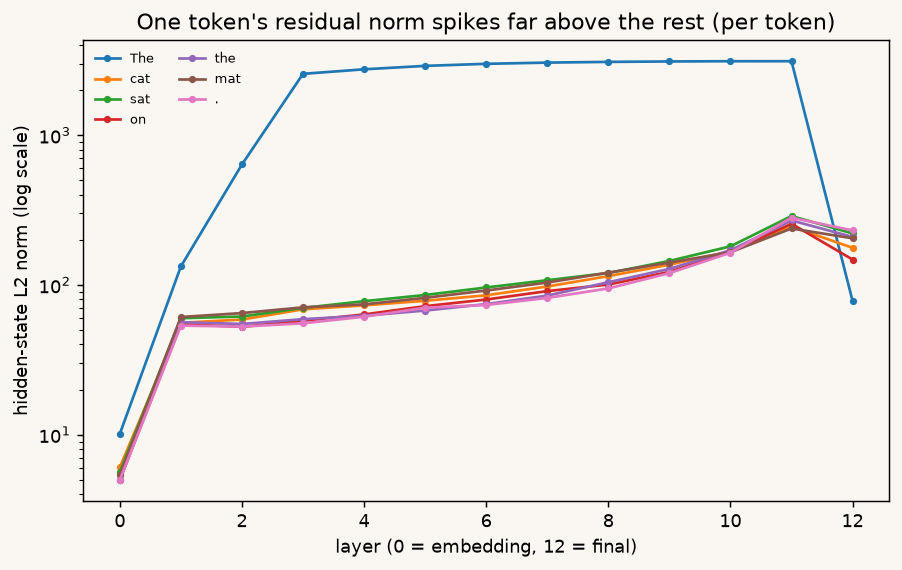
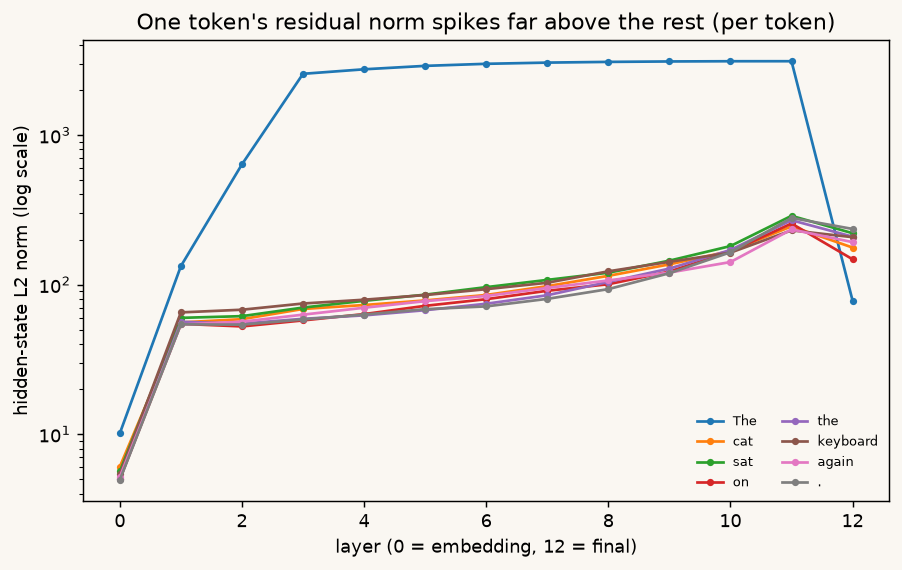
FN2: switch example to 'The cat sat on the keyboard again.', add interpretable subject-tracking head
Feature layer 4 head 3 (later words look back at 'cat') beside the layer 5 head 1
sink, per the clear-word-pair-pattern request. Regenerate all three figures with
the granular PowerNorm attention scale. Update observe.py/extract2.py/plot.py and
the draft text (39x activation spike, 8-token grids) to match.

diff --git a/drafts/fn2/code/plot.py b/drafts/fn2/code/plot.py
@@ -15,24 +15,43 @@ S = meta["seq_len"]
 PAPER = "#faf7f2"
 
 # --- Figure 1: attention heatmap, the local head vs. the sink head ---
-lh = meta["local_head_layer0"]
+# Two readability fixes over a plain 0-1 heatmap:
+#   1. mask the upper triangle (causal: those cells are exactly 0 by construction,
+#      not "no attention learned") so real zeros don't read as a checkerboard.
+#   2. use a gamma<1 power norm + per-cell numbers so mid-range weights are legible
+#      instead of everything snapping to pure black or yellow.
+from matplotlib.colors import PowerNorm
+il, ih = meta["interp_head"]
 sl, sh = meta["sink_head"]
-picks = [(0, lh, "a local head\n(looks at neighbors)"),
-         (sl, sh, "the sink head\n(dumps onto 'The')")]
-fig, axes = plt.subplots(1, 2, figsize=(10, 4.8))
+picks = [(il, ih, "an interpretable head\n(later words look back at 'cat')"),
+         (sl, sh, "the sink head\n(every word dumps onto 'The')")]
+labels = [t.strip() for t in tokens]
+fig, axes = plt.subplots(1, 2, figsize=(11, 5.2))
 fig.patch.set_facecolor(PAPER)
+norm = PowerNorm(gamma=0.45, vmin=0, vmax=1)
 for ax, (L, H, sub) in zip(axes, picks):
-    m = attn[L, H]
-    im = ax.imshow(m, cmap="magma", vmin=0, vmax=1, aspect="equal")
-    ax.set_title(f"layer {L}, head {H}\n{sub}", fontsize=11)
+    m = attn[L, H].copy()
+    m[np.triu_indices(S, k=1)] = np.nan          # hide future positions
+    cmap = plt.get_cmap("magma").copy()
+    cmap.set_bad(PAPER)                           # masked cells = paper color
+    im = ax.imshow(m, cmap=cmap, norm=norm, aspect="equal")
+    for i in range(S):                            # print the weight in each live cell
+        for j in range(i + 1):
+            v = attn[L, H, i, j]
+            if v >= 0.005:
+                ax.text(j, i, f"{v:.2f}".lstrip("0"), ha="center", va="center",
+                        fontsize=6.5, color="white" if v < 0.6 else "black")
+    ax.set_title(f"layer {L}, head {H}\n{sub}", fontsize=10.5)
     ax.set_xticks(range(S)); ax.set_yticks(range(S))
-    ax.set_xticklabels([t.strip() for t in tokens], rotation=90, fontsize=8)
-    ax.set_yticklabels([t.strip() for t in tokens], fontsize=8)
+    ax.set_xticklabels(labels, rotation=90, fontsize=8)
+    ax.set_yticklabels(labels, fontsize=8)
     ax.set_xlabel("attends to", fontsize=9)
     ax.set_facecolor(PAPER)
 axes[0].set_ylabel("token doing the attending", fontsize=9)
-fig.colorbar(im, ax=axes, fraction=0.03, pad=0.03, label="attention weight")
-fig.suptitle('GPT-2 attention, one prompt: "%s"' % meta["prompt"], fontsize=12, y=1.02)
+cbar = fig.colorbar(im, ax=axes, fraction=0.03, pad=0.03,
+                    ticks=[0, 0.1, 0.25, 0.5, 1.0])
+cbar.set_label("attention weight (nonlinear scale)")
+fig.suptitle('GPT-2 attention on "%s"' % meta["prompt"], fontsize=12, y=1.02)
 fig.savefig(f"{D}/fig_attention.png", dpi=130, facecolor=PAPER, bbox_inches="tight")
 plt.close(fig)
 

diff --git a/drafts/fn2/code/extract2.py b/drafts/fn2/code/extract2.py
@@ -15,7 +15,7 @@ import torch
 from transformers import AutoModelForCausalLM, AutoTokenizer
 
 MODEL = "gpt2"
-PROMPT = "The cat sat on the mat."   # simpler: no coreference bait, 7 tokens
+PROMPT = "The cat sat on the keyboard again."   # funny + a clear subject-tracking head
 OUT = "/home/mpathak/code/research/tools/tailfin/fn-observe-prototype"
 
 tok = AutoTokenizer.from_pretrained(MODEL)
@@ -36,17 +36,38 @@ L, H, _, _ = attn.shape
 # sink strength per head: last token's attention weight onto token 0
 sink = attn[:, :, -1, 0]                        # [L, H]
 li, hi = np.unravel_index(sink.argmax(), sink.shape)
-# a diffuse/local contrast head: smallest sink among layer-0 heads
-local_h = int(sink[0].argmin())
+
+# the "interpretable" contrast head: the one with the strongest real word-pair
+# links, i.e. big off-diagonal weight that is NOT self, the immediate neighbor,
+# or the sink column (token 0). This is the head that shows meaning being wired
+# up (e.g. several later words pointing back at the subject).
+mask = np.ones((L, H))
+best_link = -1.0
+int_l, int_h = 0, 0
+for a in range(L):
+    for b in range(H):
+        m = attn[a, b]
+        score = 0.0
+        for i in range(2, S):
+            for j in range(1, i - 1):    # skip self, neighbor, token 0
+                score = max(score, m[i, j])
+        if score > best_link:
+            best_link, int_l, int_h = score, a, b
 
 print(f"prompt: {PROMPT!r}   tokens: {tokens}   ({S} tokens)")
 print(f"layers={L} heads={H}\n")
 print(f"strongest sink head: layer {li}, head {hi}  "
       f"-> {sink[li, hi]:.0%} of last token's attention on token 0 ({tokens[0]!r})")
-print(f"contrast (local) head: layer 0, head {local_h}  "
-      f"-> only {sink[0, local_h]:.0%} on token 0")
+print(f"interpretable head: layer {int_l}, head {int_h}  "
+      f"-> strongest word-pair link {best_link:.2f}")
+# report that head's links back to the subject
+m = attn[int_l, int_h]
+for qi in range(2, S):
+    row = m[qi].copy(); row[qi] = 0; row[0] = 0
+    kj = int(row.argmax())
+    if row[kj] > 0.3:
+        print(f"    {tokens[qi]!r:>10} -> {tokens[kj]!r:<10} {row[kj]:.2f}")
 print()
-# how common is the sink? fraction of heads (deep half) with >50% on token 0
 deep = attn[L // 2:, :, -1, 0]
 print(f"heads in the deep half with >50% of last-token attention on token 0: "
       f"{(deep > 0.5).mean():.0%}")
@@ -57,7 +78,7 @@ meta = {
     "model": MODEL, "prompt": PROMPT, "tokens": tokens, "seq_len": S,
     "n_layers": L, "n_heads": H,
     "sink_head": [int(li), int(hi)], "sink_strength": float(sink[li, hi]),
-    "local_head_layer0": local_h, "local_strength": float(sink[0, local_h]),
+    "interp_head": [int(int_l), int(int_h)], "interp_link": float(best_link),
     "attn_row_sum_check": float(attn[li, hi, -1].sum()),
     "hidden_dim": int(hidden.shape[-1]),
 }

diff --git a/drafts/fn2/code/observe.py b/drafts/fn2/code/observe.py
@@ -18,7 +18,7 @@ model = AutoModelForCausalLM.from_pretrained(
     torch_dtype=torch.float32,
 ).eval()
 
-prompt = "The cat sat on the mat."
+prompt = "The cat sat on the keyboard again."
 enc = tok(prompt, return_tensors="pt")
 tokens = [tok.decode([t]) for t in enc.input_ids[0].tolist()]
 

diff --git a/drafts/fn2/README.md b/drafts/fn2/README.md
@@ -4,15 +4,27 @@
 
 ---
 
-Most of this series watches models from the outside. Tokens per second, batch sizes, KV-cache blocks, the shape of a decode step in a trace. That's the serving layer, and it's where the money is.
+Most of this series watches models from the outside. How many tokens per second, how big a batch, how the work looks in a profiler trace. That's the serving layer, the plumbing that turns your prompt into an answer fast, and it's where the money is.
 
-Underneath it sits a layer the serving stack never shows you: the actual arithmetic. The attention weights, the activations moving up the residual stream, the numbers the model computes on its way to a next-token prediction.
+But there's a layer underneath that the plumbing never shows you: the actual thinking. When a model reads your prompt, it does a huge pile of arithmetic. Which earlier words does it look at? How strongly? What is it holding onto as it goes? Those numbers exist for a fraction of a second and then they're gone.
 
-So I asked a simple question. For one prompt, can I just watch what the model is doing inside? It turns out you can, in about forty lines of code, and the picture is stranger than I expected.
+So I asked a simple question. For one prompt, can I just watch what the model is doing inside while it reads? It turns out you can, and the picture is stranger than I expected.
 
-## Getting the matrices out
+## A one-minute refresher on attention
 
-You can't do this with vLLM or Ollama (I'll come back to why). You use plain HuggingFace `transformers` in "eager" mode, and ask it to keep the intermediate values it normally throws away. Three flags do it:
+If you've read [the primer on what happens inside an LLM](https://mapathak-commits.github.io/inference-wall/articles/primer-2/), skip this. If not, here's the only idea you need.
+
+A language model reads your prompt one word at a time (really *tokens*, which are word-pieces, but think "words"). The single trick that lets it understand a sentence rather than a bag of words is **attention**: as the model processes each word, it looks back over the earlier words and decides how much weight to give each one. When it reads "sat" in *the cat sat on the keyboard*, attention is what lets "sat" look back and connect to "cat," the thing doing the sitting.
+
+Each word spreads a fixed budget of attention over the words before it. The budget always adds up to 1, like slicing a pie: give a bigger slice to one word and every other slice shrinks. So an attention pattern is just a set of pie-slices, one per earlier word, saying where this word is looking.
+
+The model doesn't do this once. It has many **heads**, each looking for its own kind of relationship (one might track the subject of the sentence, another the previous word), stacked in **layers** that refine the picture. GPT-2, the small open model I'll use here, has 12 layers with 12 heads each: 144 little attention patterns per word. That's the thing I wanted to see.
+
+## Getting the numbers out
+
+Here's the catch, and it's the whole reason this is a field note. The fast tools everyone actually serves models with, like vLLM or Ollama, *can't* show you this (I'll come back to why). You have to use a slower, more honest library, HuggingFace `transformers`, and ask it to hand back the scratch work it normally throws away.
+
+If you don't care about the code, skip the gray boxes. It's three settings that mean "keep the attention pie-slices, keep the running state, and keep the memory of earlier words":
 
 ```python
 model = AutoModelForCausalLM.from_pretrained(
@@ -21,90 +33,74 @@ model = AutoModelForCausalLM.from_pretrained(
 
 out = model(**enc,
             output_attentions=True,      # keep the attention weights
-            output_hidden_states=True,   # keep every layer's residual stream
-            use_cache=True)              # and the KV cache
+            output_hidden_states=True,   # keep the running state at every layer
+            use_cache=True)              # and the memory of earlier tokens (the KV cache)
 ```
 
-Now everything the model computed is sitting in `out`, and you can stack it into arrays you can index directly:
+That gives back two things worth staring at. The **attention weights**: for my eight-token sentence, a stack of 8x8 grids, one per head, where each row is a word and each cell says how big a slice it gave to an earlier word. And the **running state**: the vector the model carries for each word, snapshotted after every layer, which I'll get to in the second half.
 
-```python
-attn   = np.stack([a[0].numpy() for a in out.attentions])      # [layers, heads, S, S]
-hidden = np.stack([h[0].numpy() for h in out.hidden_states])   # [layers+1, S, dim]
-```
+The full runnable version is [`observe.py`](code/observe.py). Everything below just reads off those two.
 
-For GPT-2 on my prompt, `"The cat sat on the mat."`, that makes `attn` a `[12, 12, 7, 7]` block: twelve layers, twelve heads each, and for every head a 7x7 grid saying how much each token attends to each earlier token. `hidden` is `[13, 7, 768]`, the state of all seven tokens after each layer plus the embedding. The full runnable version is [`observe.py`](code/observe.py); everything below reads off these two arrays.
+## What one head is looking at
 
-## What to look for in the attention grid
+The clean way to read an attention grid: pick a row (that's one word), and the bright cells are the earlier words it leaned on. My prompt for the rest of this note is `"The cat sat on the keyboard again."`, chosen because some heads do something genuinely readable with it.
 
-Each row of an attention matrix answers one question for one token: of everything I'm allowed to look at, where do I put my attention? The row is a softmax, so it sums to exactly 1. Read left to right, and the bright cells are where that token is looking.
+Take layer 4, head 3. It's a "who did what" head: several later words reach back and grab the subject of the sentence. "sat" looks at "cat" with a slice of 0.96, "on" looks at "cat" at 0.89, even the final period points back at "cat." You can watch the model tie the sentence together, exactly the intuition you'd hope for. Now score every head by a different number: how big a slice does the *last* word hand to the *first* word? One head wins outright. Layer 5, head 1 gives the first word a slice of 1.00, the whole pie. Here the two sit side by side:
 
-There are 144 heads, so I don't eyeball them. I score them. A good score for finding the interesting behavior is how much of the *last* token's attention, the token about to predict the next word, lands on the *first* token:
+![Two GPT-2 attention grids side by side. On the left, layer 4 head 3, several rows point back at the "cat" column with printed weights like 0.96 and 0.89. On the right, layer 5 head 1, one solid bright column on the first word, every cell reading 1.00.](fig_attention.png)
 
-```python
-sink = attn[:, :, -1, 0]                          # [layers, heads]
-layer, head = np.unravel_index(sink.argmax(), sink.shape)
-```
+*Each row is a word doing the looking; each cell is the slice it gave an earlier word (numbers printed in, darker means smaller; the blank upper triangle is just the future, which no word is allowed to see). Left, layer 4, head 3: a readable head, where later words reach back to the subject, "cat." Right, layer 5, head 1: the surprise. Every word, whatever it means, hands its entire slice to the first word, "The."*
 
-For GPT-2, the winner is layer 5, head 1, and its score is 1.00. That head puts *all* of the final token's attention on the word "The." Here it is next to a normal-looking head from layer 0:
+The left panel is what I assumed all attention looked like: words wiring up to each other, meaning getting assembled. The right panel is the surprise. A whole head, deep in the network, has decided the single most useful place to look is a throwaway article at the front of the sentence.
 
-![Two GPT-2 attention heads side by side. The layer-0 head shows a bright diagonal; the layer-5 head shows one bright column on the first token.](fig_attention.png)
+And it isn't one odd head. If I score all 144 by that same first-word measure and lay them out as a grid, the back half of the network lights up almost entirely:
 
-*Left: layer 0, head 1, a local head. The bright diagonal means each token mostly attends to itself and its neighbor, the intuitive picture. Right: layer 5, head 1, the sink head. One bright column: every token, whatever its own meaning, dumps its attention onto the first token. Everything else is dark.*
+![A 12-by-12 grid of layer versus head, shaded by how much each head's last word looks at the first word. The top rows (early layers) are dark; the bottom rows (deep layers) are mostly bright.](fig_sink_grid.png)
 
-The left panel is what I naively expected all attention to look like. A diagonal, tokens wiring up to their neighbors. The right panel is the surprise. A whole head, deep in the network, has decided the most useful place to point is a meaningless article at the start of the sentence.
-
-It isn't one rogue head either. If I plot the sink score for all 144 of them, the back half of the network lights up almost completely:
-
-![A 12 by 12 grid of layer versus head, colored by how much each head's last-token attention lands on token 0. Early layers are dark, deep layers are bright.](fig_sink_grid.png)
-
-*Each cell is one head, colored by how much of the last token's attention it parks on token 0. Early layers (top) still do local work. In the deep layers (bottom), most heads have gone bright. The boxed cell is layer 5, head 1. Across the back half of the network, 92% of heads put more than half their attention on the first token.*
+*Each square is one head, shaded by how much of the last word's attention it dumps on the first word. Early layers (top) still do real local work like the "cat" head above. In the deep layers (bottom), most heads have gone bright. The boxed square is layer 5, head 1. Across the back half of the network, 92% of heads send more than half their attention to the first word.*
 
 ## Why it does that
 
-This is called an **attention sink**, and there's a clean mechanical reason for it.
+This is a known effect, called an **attention sink**, and once you see the reason it stops being mysterious.
 
-The softmax is the culprit. Every token's attention weights are forced to sum to 1, so a head has to spend a full unit of attention on the earlier tokens whether or not any of them are relevant. But heads are specialists. A lot of the time a head's particular job, say "find the verb three tokens back," just isn't happening in this sentence. It still has to put its unit of attention somewhere.
+Remember the pie has to add up to 1. A head is forced to spend its whole budget on the earlier words, whether or not any of them are relevant to its job. But heads are specialists. A head that hunts for, say, the verb three words back has nothing to do in a sentence where that pattern doesn't appear. It still has to put its pie somewhere.
 
-So it dumps it on a token that is always present, always in the same place, and carries no meaning worth corrupting: the first one. The sink is the model's junk drawer, a fixed and safe place to offload attention it doesn't want to spend. Token 0 gets the job because causal masking makes it visible to every later token, and a constant target is easy to learn. The [StreamingLLM paper](https://arxiv.org/abs/2309.17453) (Xiao et al., 2023) named the effect and showed the model quietly depends on it, which matters later.
+So it dumps the budget on a word that is always there, always in the same spot, and carries no meaning worth disturbing: the first one. The sink is the model's junk drawer, a safe place to offload attention it doesn't want to spend. The first word gets the job because every later word can see it, and a fixed target is easy for the model to learn. The [StreamingLLM paper](https://arxiv.org/abs/2309.17453) (Xiao et al., 2023) named this effect and showed the model quietly depends on it, which matters in a minute.
 
-## The second thing: one token's activations explode
+## The second surprise: one word's "loudness" explodes
 
-While the internals were open, I looked at the other array. For each token at each layer I measured the size of its vector, the L2 norm, and watched how it grows through the network. One line:
+While I had the internals open, I looked at the other thing the model hands back: the running state it carries for each word. You can boil each word's state down to a single number, how "loud" it is (the length of its vector). Track that number layer by layer and almost every word grows gently and stays in a tight pack. Except one.
 
-```python
-norms = np.linalg.norm(hidden, axis=-1)           # [layers+1, tokens]
-```
+![Per-word loudness across the layers, on a log scale. One line, the first word, shoots far above the pack in the middle layers, rides high, and drops back at the end.](fig_hidden_norm.png)
 
-![Per-token residual-stream norm across layers on a log scale. One token spikes far above the others in the middle layers, then settles back by the output.](fig_hidden_norm.png)
+*How loud each word's internal state is, layer by layer (log scale, so each gridline is 10x). Every word grows gently except "The," which spikes to about 39 times louder than the rest through the middle of the network, then settles back into the pack right at the end. On a normal scale the spike would flatten every other line to the floor.*
 
-*Residual-stream norm, per token, layer by layer, log scale. Every token grows gently except "The," which spikes to about 38x the others in the early-middle layers, rides high, then settles back to the pack by the final layer. On a linear axis the spike would flatten every other line to the floor.*
+One word blows up far past the others, the same word again, peaks in the middle of the network, and quietly returns to the pack by the final layer. If you only looked at the model's output, which is all you normally get, you'd never know it happened. You have to watch the middle of the computation to catch it.
 
-One token's vector blows up far past the rest, the same token again, peaks in the middle of the network, and returns to the pack by the output. If you only looked at the final-layer vectors, which is all you'd have without `output_hidden_states=True`, you'd never know it happened. You have to watch the middle of the computation.
+These spikes are called **massive activations** ([Sun et al., 2024](https://arxiv.org/abs/2402.17762)), and they're the flip side of the sink. The model parks a big, roughly constant scratch value on one word and then points its spare attention there. The junk drawer and the scratch pad are the same word.
 
-These are called **massive activations** ([Sun et al., 2024](https://arxiv.org/abs/2402.17762)), and they're tied to the sink. The model builds a big, roughly constant "bias" vector on one token and then parks attention there. The junk drawer and the scratch register are the same drawer.
+(I ran the same check across a handful of other models, from Meta's OPT to Alibaba's Qwen, and both effects showed up every time. But the point here is the intuition and how to look, not a survey, so one clean example carries it.)
 
-I ran the same probe across Pythia, OPT, Qwen2.5, TinyLlama, and a few others, and both effects showed up every time. But the point of this note is the intuition and how to look, not a survey, so one clean example carries it.
+## Why the fast tools can't show you this
 
-## Why your serving stack can't show you this
+Here's the tie back to the rest of the series. I found all of this without touching vLLM or Ollama, the tools I use everywhere else, because they never build the picture I just showed you.
 
-Here's the tie back to the rest of the series. I found all of this without ever touching vLLM or Ollama, the tools I use everywhere else, because they never build the thing I plotted.
+That 8x8 grid, one weight for every pair of words, is the expensive part of attention. For a real prompt of thousands of words it's a grid of millions of cells, and its size grows with the *square* of the length. The entire art of fast serving is to get the *result* of attention without ever writing that giant grid down. FlashAttention, the subject of the next full post, computes it in small tiles and never stores the full grid. PagedAttention, the trick vLLM is built on, streams the earlier words' memory through the chip as fast as it can and would never stop to hand you a labeled table. Speed comes precisely from throwing away the scratch work I wanted to read.
 
-The attention matrix is an N-by-N object: for every token, a weight on every earlier token. That O(N²) grid is exactly what the fast serving path exists to avoid materializing. FlashAttention, the subject of the next full post, computes the softmax in tiles and produces the attention *output* without ever writing down the attention *weights*. PagedAttention, the trick vLLM is built on, streams keys and values through the kernel as fast as it can and isn't going to hand you a labeled 7x7 grid. The whole craft of fast inference is to compute the answer while discarding the intermediates I wanted to see.
-
-So those numbers exist for a few microseconds inside a fused GPU kernel and then they're gone. The serving layer stays fully observable. You can watch batches form, KV blocks get allocated, prefill and decode steps tick by, which is most of what this series does. But the math layer is deliberately optimized out of existence in production. To see it you run the slow, honest path: eager mode, fp32, on CPU, with the flags that keep everything. It's far slower and it would never ship. It's also the only path that stops to write down what the model is thinking.
+So the numbers I plotted exist for a few microseconds inside a fused chip operation and then they're gone. The serving layer stays perfectly observable, and watching it is most of what this series does. But this deeper math layer is deliberately optimized out of existence in the fast path. To see it, you run the slow, honest version: one small model, full precision, on a CPU, with the flags that keep everything. It would never survive in production. It's also the only version that stops to write down what the model is thinking.
 
 ## Why it matters
 
-Two throwaway observations about a toy sentence turn out to touch two of the most expensive problems in efficient serving.
+Two throwaway observations about an eight-token sentence turn out to sit under two of the hardest problems in running these models cheaply.
 
-The sink is why you can't just chop off the front of a long context. The obvious way to handle a conversation longer than the window is to drop the oldest tokens. StreamingLLM showed that this collapses quality, and the reason is the sink: the deep layers are still dumping most of their attention on those first tokens. Delete them and every head's softmax has to renormalize onto tokens that were only ever meant to be ignored. The fix that works is to keep a few initial sink tokens permanently, however long the conversation runs. The junk drawer is structural.
+**The sink is why you can't just forget the start of a long chat.** When a conversation runs past a model's window, the obvious fix is to drop the oldest words. StreamingLLM showed this wrecks the model's quality, and the sink is why: the deep layers are still pouring most of their attention onto those first few words. Delete them and every head's pie has to be re-sliced onto words that were only ever meant to be ignored, and the model falls apart. The fix that works is to *keep* a few opening words forever, however long the chat gets. The junk drawer turns out to be structural.
 
-The massive activations are why quantization is hard. The series finale is about running models in 4 bits. Quantization fits a tensor's values into a small numeric range, and it hates outliers, because one value 30 or 100 times larger than the rest stretches the range until everything else rounds to mush. The massive-activation token is exactly that outlier, present on nearly every forward pass. A large chunk of the quantization literature is machinery for handling these specific spikes without letting them wreck the precision of everything around them.
+**The loud word is why shrinking models is hard.** The series finale is about running models in 4 bits instead of 16 or 32, which saves enormous memory but means squeezing every number into a tiny range of values. That squeeze hates outliers: one value 30 or 100 times bigger than its neighbors stretches the range until everything else rounds to mush. The massive-activation word is exactly that outlier, and it shows up on nearly every pass. A big slice of the research on shrinking models is, underneath, elaborate machinery for handling these specific spikes.
 
-Both were discovered the hard way, at scale, in production. Both are visible in forty lines of CPU code on a single seven-token sentence, if you run the slow path that writes down what the fast path throws away.
+Both of these were discovered the hard way, at scale, by teams running models in production. And both are sitting right there in forty lines of code on a single toy sentence, if you're willing to run the slow version that writes down what the fast one erases.
 
-I went looking to watch a model think. What I mostly found was bookkeeping: a quiet place to park attention it doesn't need, and a scratch register built on the nearest throwaway token. The interesting part isn't that the model does something profound on the word "The." It's that this unglamorous housekeeping matters enough that two of the hardest problems in serving are, underneath, just fights with it.
+I went looking to watch a model think. What I mostly found was housekeeping: a quiet place to dump attention it doesn't need, and a scratch value stuck on the nearest throwaway word. The fun part isn't that the model is doing something deep with the word "The." It's that this unglamorous bookkeeping matters enough that two of the nastiest problems in serving are, underneath, just fights with it.
 
 ---
 
-*Method: GPT-2, HuggingFace `transformers` eager attention, fp32, CPU, prompt `"The cat sat on the mat."` Sink score is the last token's attention weight on token 0, per head. Activation spike is the peak per-token residual-stream L2 norm relative to the median across tokens. Code: [`observe.py`](code/observe.py).*
+*Method: GPT-2, HuggingFace `transformers` eager attention, full precision, CPU, prompt `"The cat sat on the keyboard again."` The sink score is the last token's attention weight on the first token, per head. The "loudness" spike is the largest per-token state vector length relative to the median, across all layers. Code: [`observe.py`](code/observe.py).*
